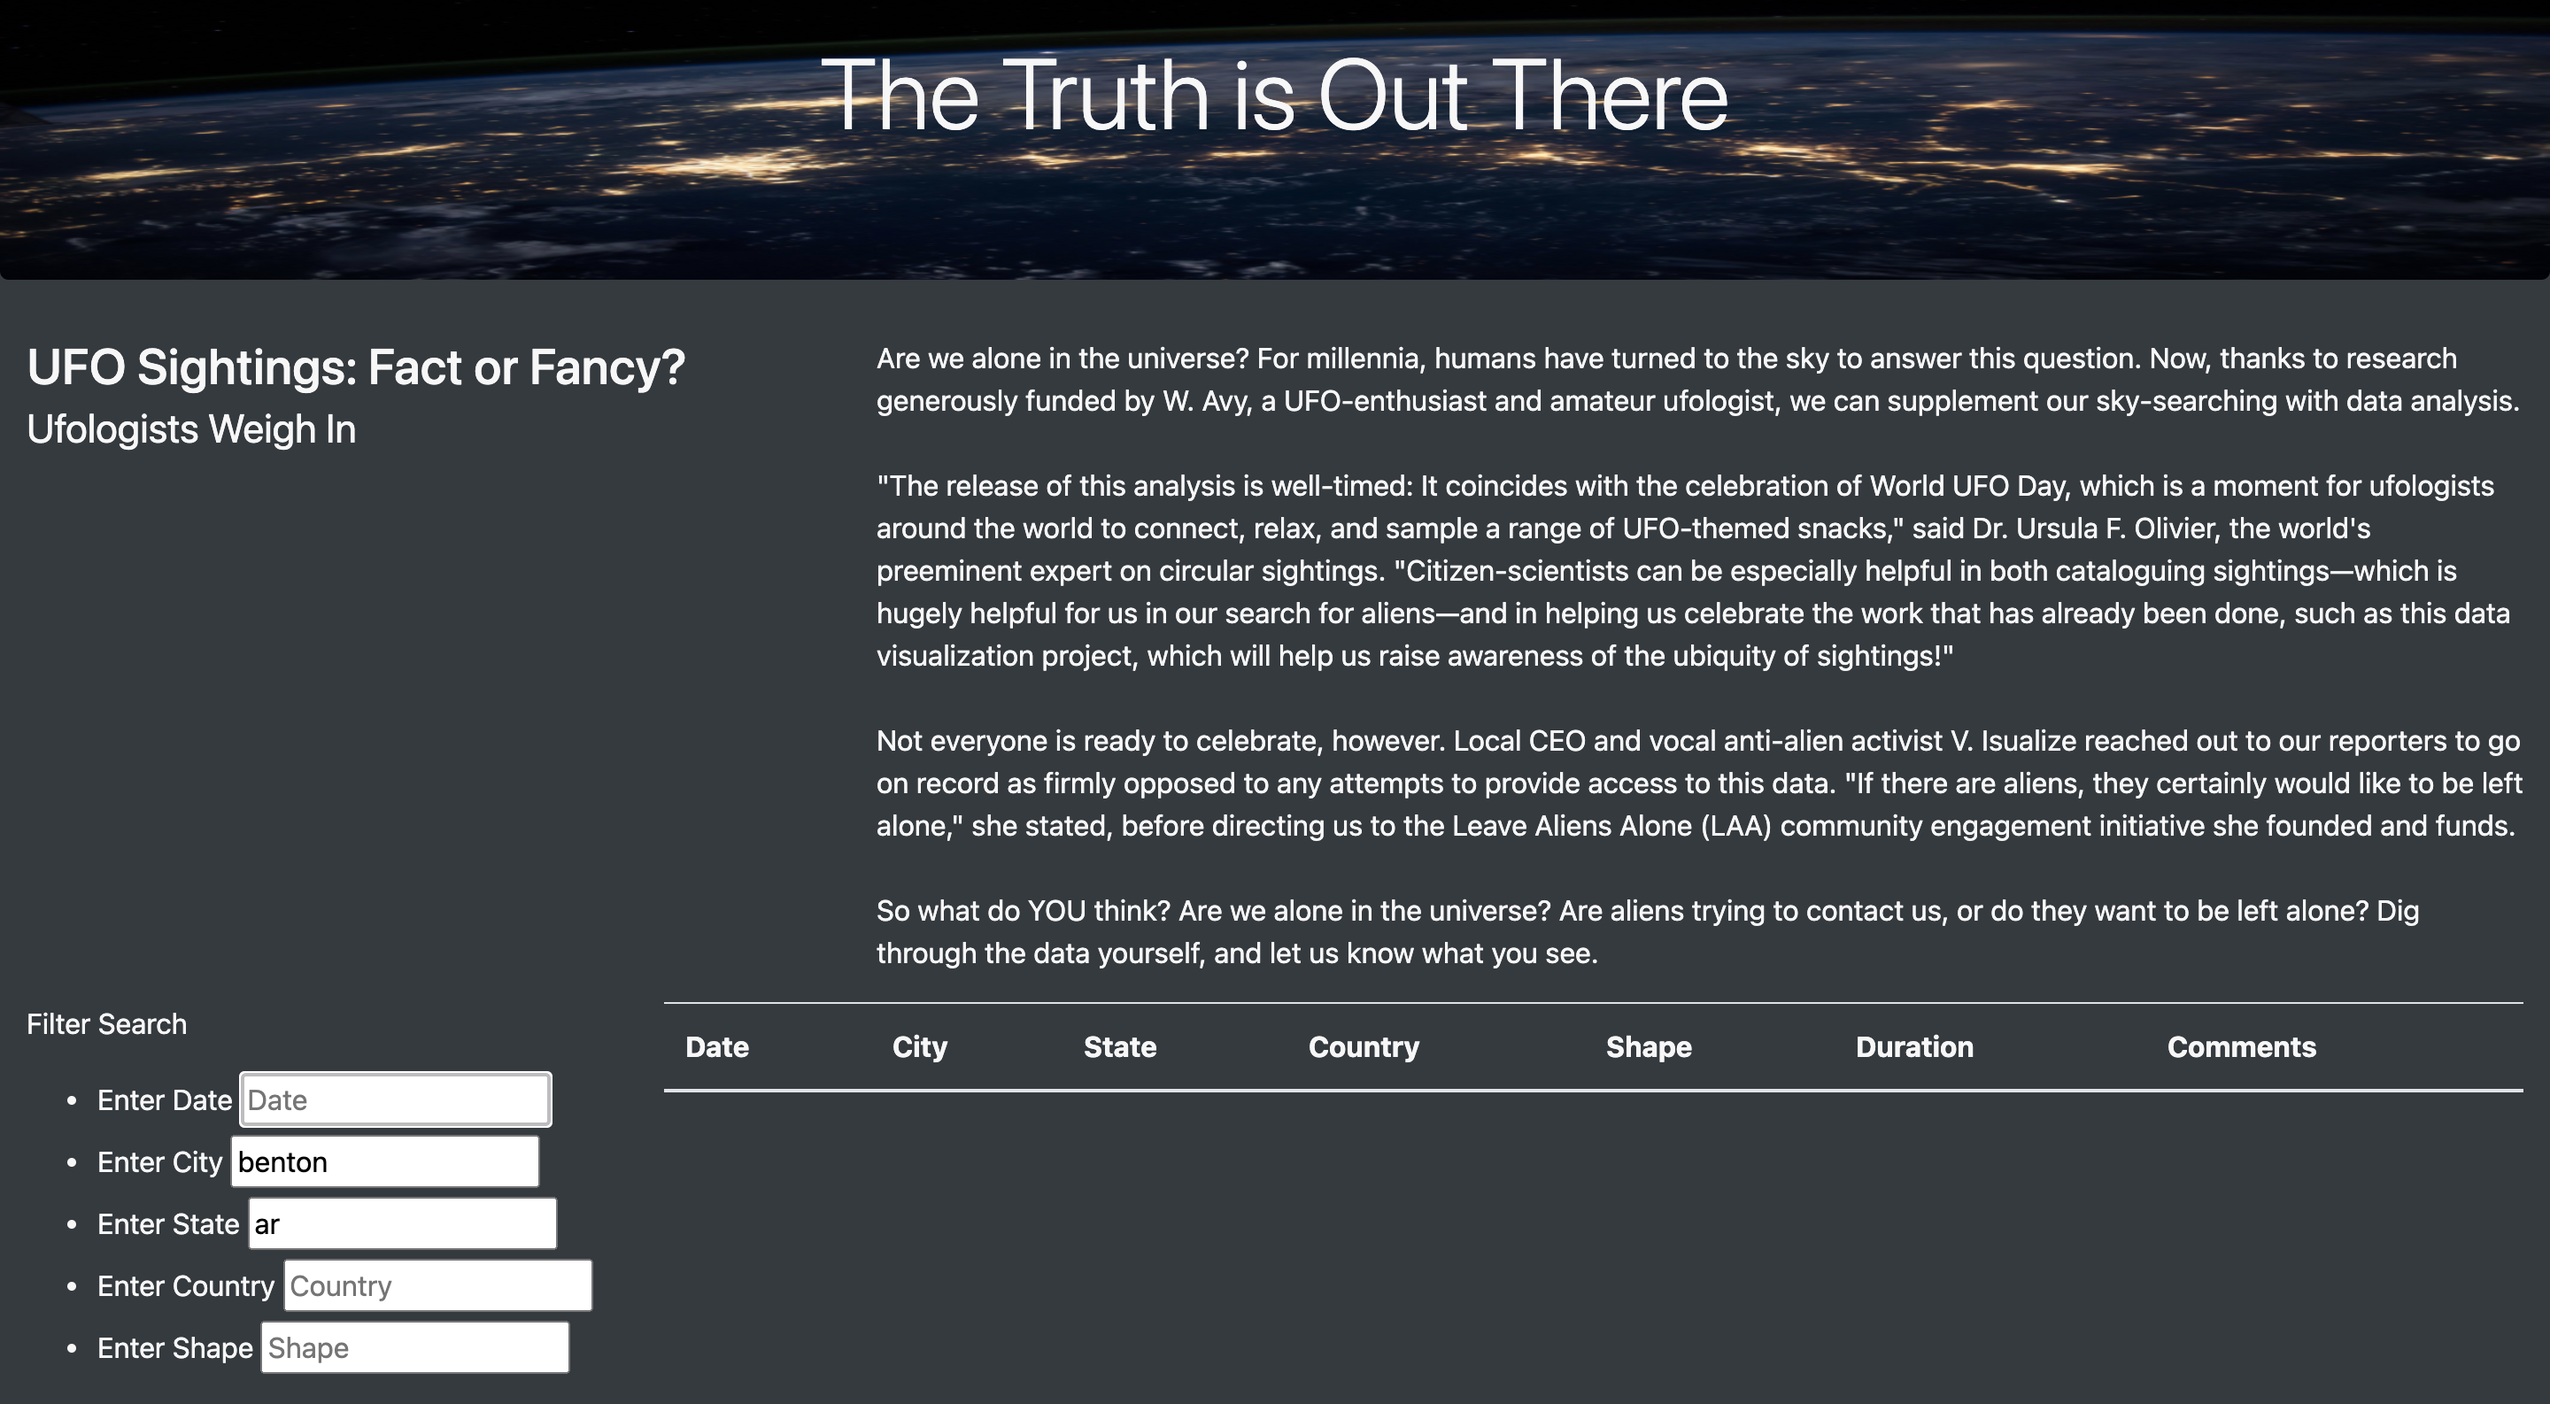
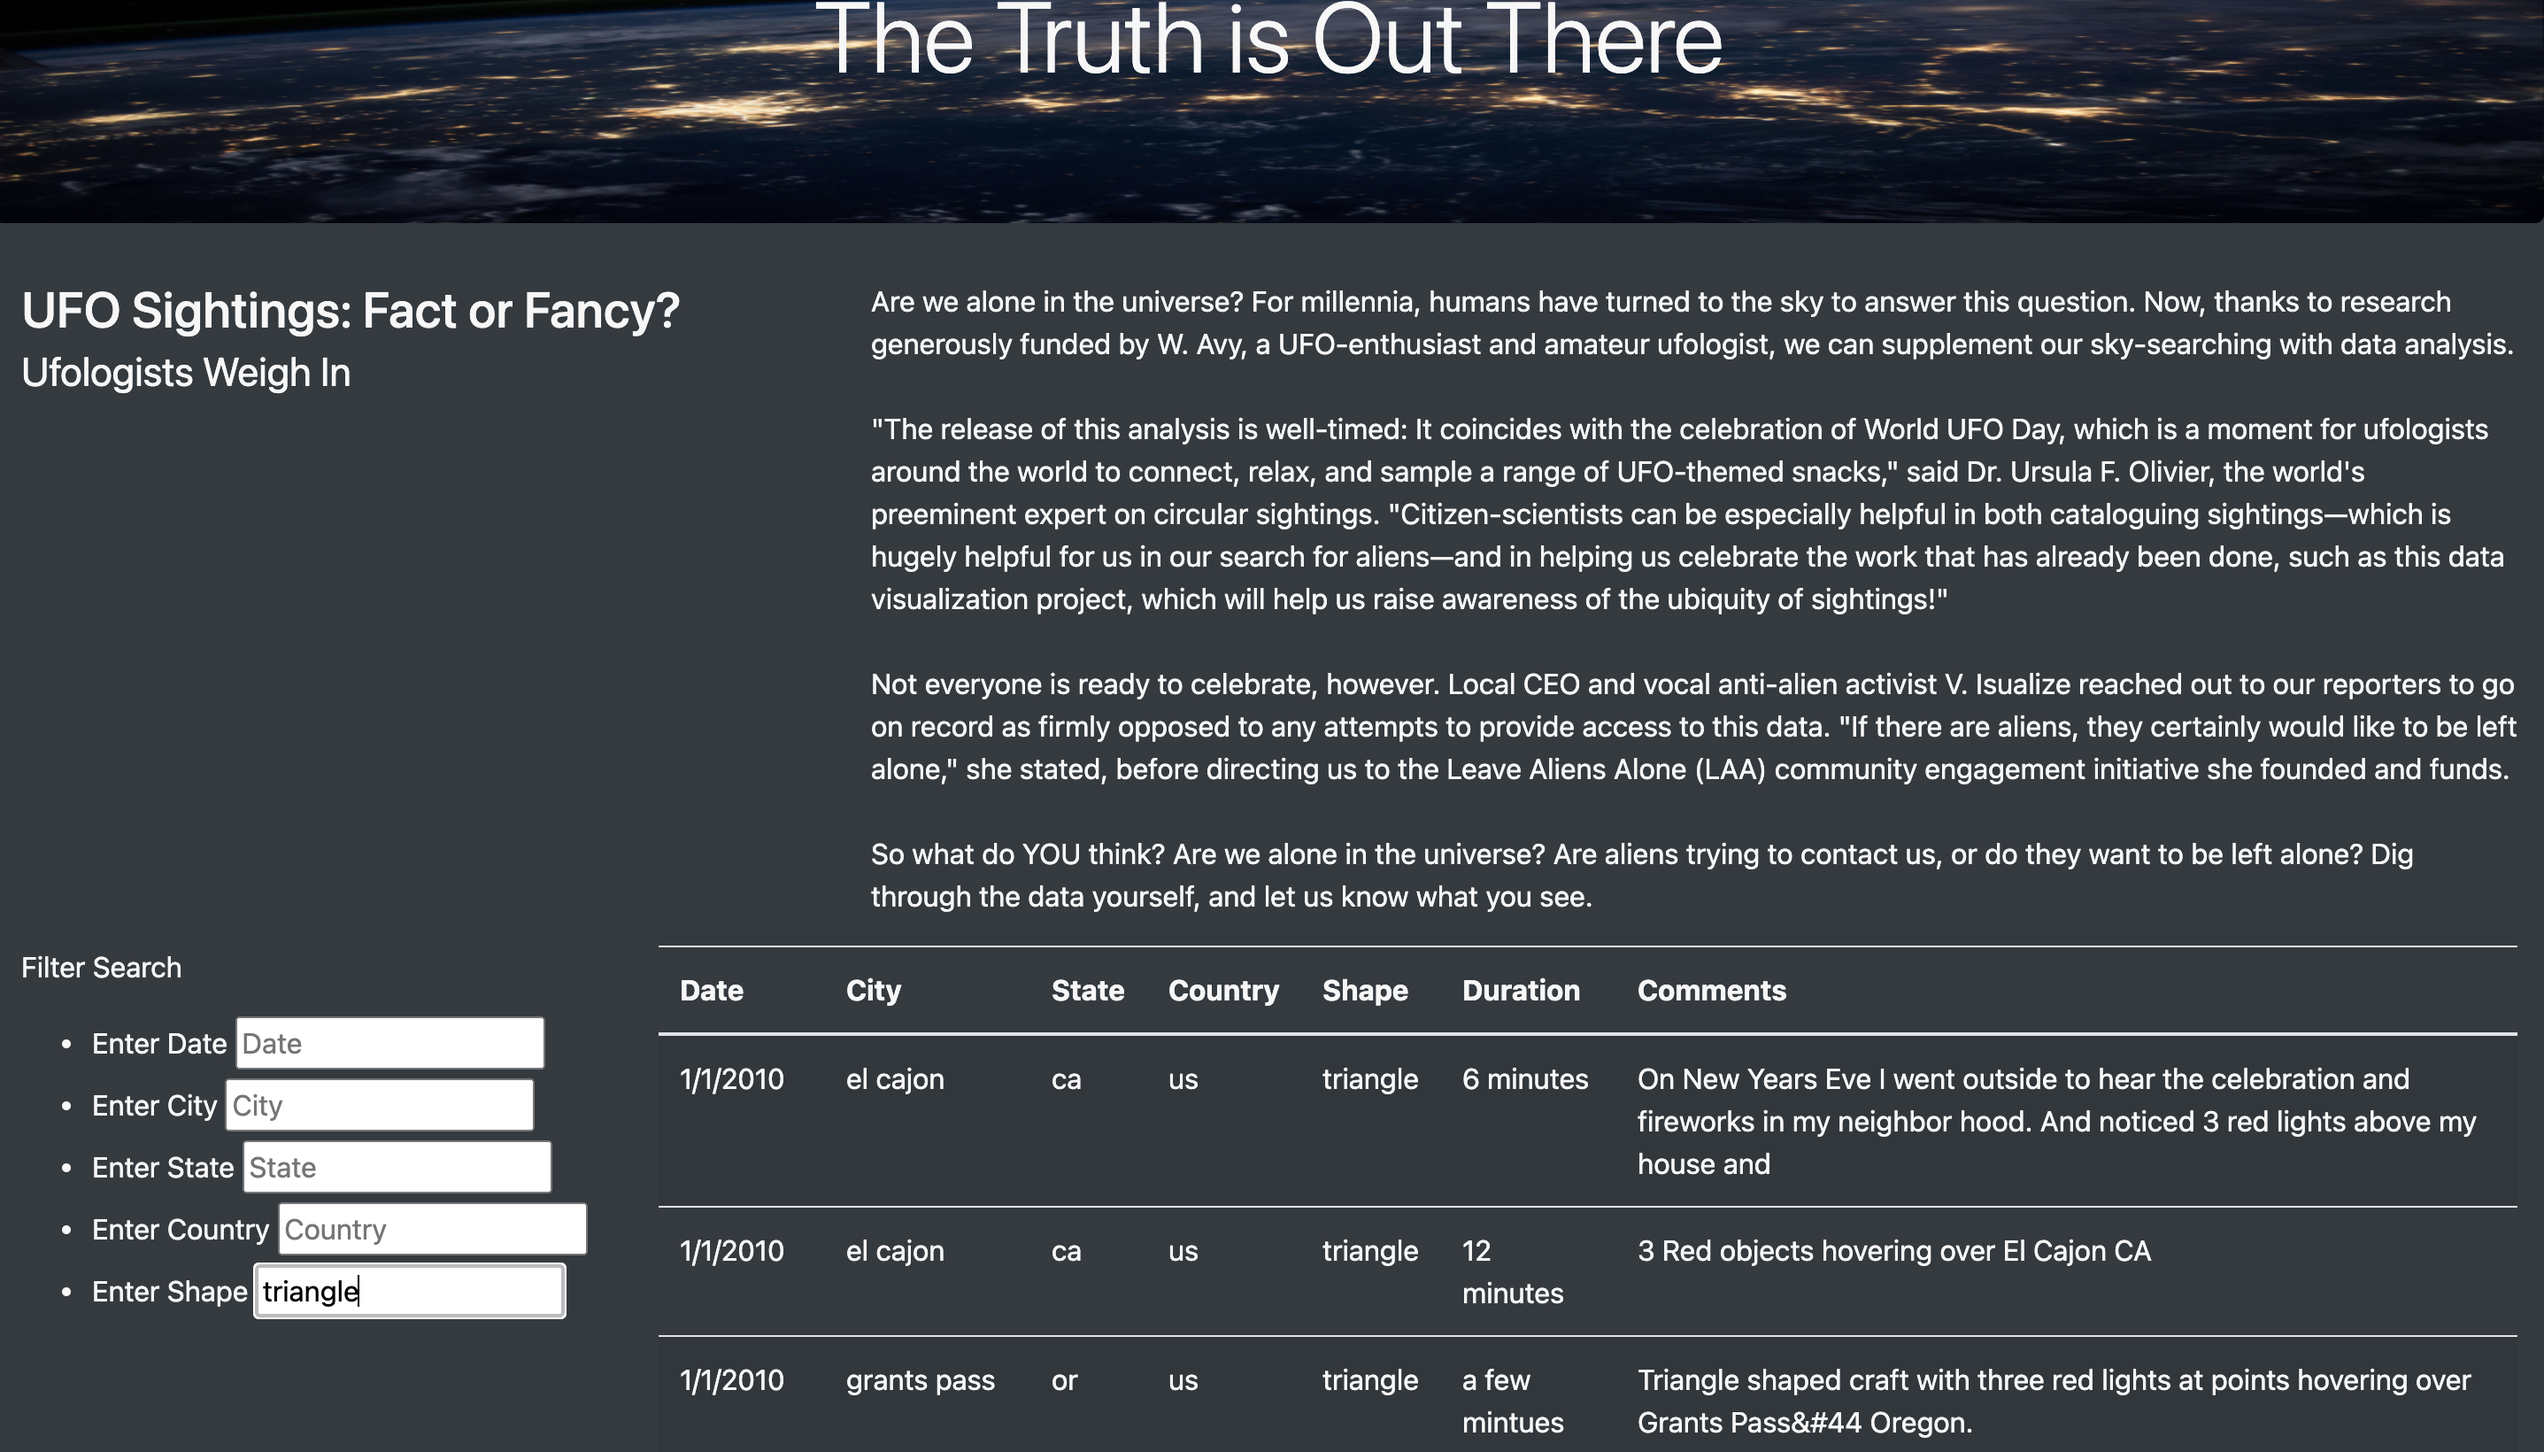
readme updates

diff --git a/README.md b/README.md
@@ -19,7 +19,7 @@ We began by building the webpage with HTML. We used Bootstrap and a CSS style sh
 <br>
 
 #### - Filtering the data
-<p padding-left: 50px>In order to filter the data we first wrote a function to create an object to hold all of the filters a user might input. We created variables elementValue and filterId based on the user's input, then created from that an array, filters, which held a set of key:value pairs. We then ran a separate filterTable() function to narrow the results table. I used a forEach loop in combination with the Object.keys() method to loop through the filters array and compare it against the data in data.js. For some reason the filterTable() function did not operate properly, even though tests of the updateFilters() function showed it was working as expected. </p>
+<p padding-left: 50px>In order to filter the data we first wrote a function to create an object to hold all of the filters a user might input. We created variables elementValue and filterId based on the user's input, then created from that an array, filters, which held a set of key:value pairs. We then ran a separate filterTable() function to narrow the results table. We used a forEach loop in combination with the Object.keys() method to loop through the filters array and compare it against the data in data.js. The image below shows the table after having been filtered for triangle-shaped UFOs. </p>
 <br>
 <p align ="center">
 <img src="static/images/webpage2.png" alt="Filtered Page"/><br>
